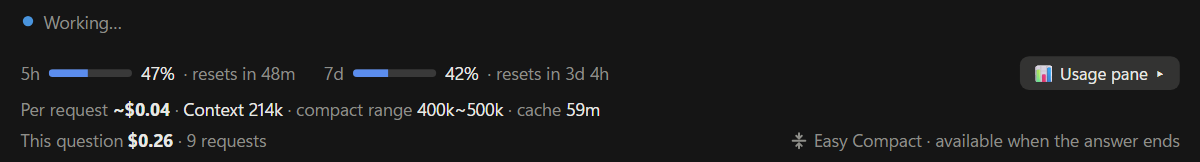
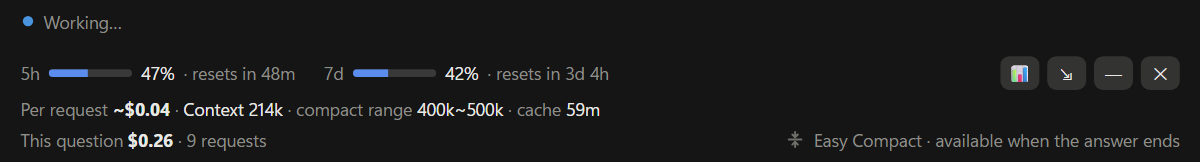
0.3.1: commands menu shows only show / hide (the rest stay on buttons and Settings), new README GIF and images for 0.3.0 screens

Changed region(s): [[0.8325, 0.3395, 0.9867, 0.5556], [0.6475, 0.8025, 0.6783, 0.9259]]

diff --git a/plugin/hooks/register.tsx b/plugin/hooks/register.tsx
@@ -1217,8 +1217,8 @@ const bandHelp = () =>
   )
 
 /**
- * 띠 단축 명령 — 도움말 · 슬래시 메뉴 맨 앞에 두는 것들(띠가 거슬린다는 말에서): 보이기 · 안보이기, 자동숨김 켜기 · 끄기,
- * 최소 · 최대, 패널 열기 · 닫기. 동사와 인자는 띄어쓰기를 무시하고 읽는다("자동 숨김 켜기" · "안 보이기"). 단축 명령이
+ * 띠 단축 명령 — 보이기 · 안보이기(메뉴 · 도움말에 보이는 건 이 둘뿐), 그리고 숨은 명령 자동숨김 켜기 · 끄기,
+ * 최소 · 최대, 패널 열기 · 닫기(바의 버튼과 같은 일 — 테스트가 쓴다). 동사와 인자는 띄어쓰기를 무시하고 읽는다("자동 숨김 켜기" · "안 보이기"). 단축 명령이
  * 아니면 null. 크기 · 자동 숨김을 고르면 안 보이기도 푼다 — 보려고 고른 것이라
  */
 async function bandShortcut($: EngineInterface, verb: string, rest: string): Promise<string | null> {
@@ -1388,45 +1388,16 @@ async function settingsCommand($: EngineInterface, verb: string, rest: string): 
   return null
 }
 
+/** 도움말 — 남은 명령 둘과, 나머지는 어디서 하는지. 명령 출력은 기록에 남아 다음 요청이 같이 읽으니 짧게 */
 const help = () =>
   L(
     [
-      '[이지 컴팩트 바 단축 명령] 모든 세션에 바로 적용 · 앱을 껐다 켜도 남음 — 영어도 됨: show | hide | auto on|off | min | max | panel',
-      '/easy-compact 보이기 | 안보이기         입력창 위 이지 컴팩트 바 늘 보이기(자동 숨김도 끔) · 끄기 — 끄기는 바의 ✕ 버튼',
-      `/easy-compact 자동숨김 켜기 | 끄기      컴팩트 구간 시작(노랑) 전엔 바를 접었다가 그때 보임 — 바의 ⇲ 버튼, 접힌 동안 입력창 아래 [${revealLabel(false)}] 로 펴기(켜기 · 끄기 없이 치면 번갈아)`,
-      '/easy-compact 최소 | 최대               바 크기: 한 줄 · 세 줄 — 바의 — / □ 버튼',
-      '/easy-compact 패널 [열기 | 닫기]        오른쪽 사용량 패널(바가 없을 때도, 열기 · 닫기 없이 치면 번갈아)',
-      '/easy-compact 패널 자동 켜기 | 끄기     새 세션에서 사용량 패널 자동으로 열기(기본 끔)',
-      '/easy-compact 패널 같이 켜기 | 끄기     한 세션에서 열고 닫으면 다른 데스크톱 세션도 같이(기본 켬)',
-      '',
-      '[설정]',
-      '/easy-compact settings   사용량 패널의 설정 탭 열기',
-      '/easy-compact set 권장 <크기|구간>   컴팩트 크기 직접 지정(예: set 권장 30만) · 구간 방식(set 권장 구간)',
-      '/easy-compact set 구간 <시작> <끝>   컴팩트 구간(예: set 구간 15만 25만) — 시작부터 노랑, 끝부터 빨강',
-      '/easy-compact set 캐시 <분>   캐시 남은 분이 이보다 적으면 노랑',
-      '/easy-compact 문구 <일반|긴 세션 이어가기|마무리|직접|직접 쓸 글>   저장하고 컴팩트 문구',
-      '/easy-compact 칸 <이름> <켜기|끄기>   최대 크기의 칸(5시간 · 7일 · 리셋 · 요청당 · 컨텍스트 · 구간 · 캐시 · 질문, 모두)',
-      '/easy-compact lang <auto|ko|en>   화면 언어(자동 = Claude 설정 → 앱 언어 → OS 언어)',
-      '/easy-compact            사용량 · 세션 기록(컨텍스트 흐름) 다시 읽기',
+      '/easy-compact 보이기 | 안보이기   입력창 위 이지 컴팩트 바 켜기 · 끄기(모든 세션) — 영어: show | hide',
+      `나머지는 바의 버튼: 📊 사용량 패널(⚙ 설정 탭) · ⇲ 자동 숨김 · — / □ 한 줄 / 전체 · ✕ 끄기. 접히거나 꺼 두면 입력창 아래 [${revealLabel(false)}]`,
     ].join('\n'),
     [
-      '[Easy Compact bar shortcuts] apply to every session at once and stay after a restart',
-      '/easy-compact show | hide          always show the Easy Compact bar above the input (auto-hide off too) · turn it off — the ✕ button',
-      `/easy-compact auto on | off        auto-hide until the start of the compact range (yellow) — the ⇲ button; while folded, [${revealLabel(false)}] below the input unfolds it (without on/off it toggles)`,
-      '/easy-compact min | max            bar size: one line · three rows — the — / □ button',
-      '/easy-compact panel [open | close] the Usage pane on the right, even with no bar (without open/close it toggles)',
-      '/easy-compact panel auto on | off  open the Usage pane by itself in new sessions (off by default)',
-      '/easy-compact panel share on | off opening or closing it in one session does the same in the other desktop sessions (on by default)',
-      '',
-      '[Settings]',
-      '/easy-compact settings   open the Settings tab of the Usage pane',
-      '/easy-compact set compact <size|range>   set a compact size (e.g. set compact 300k) · range mode (set compact range)',
-      '/easy-compact set range <start> <end>   compact range (e.g. set range 150k 250k) — yellow from start, red from end',
-      '/easy-compact set cache <minutes>   yellow when fewer cache minutes remain',
-      '/easy-compact prompt <Normal|Long-session handoff|Wrap-up|Custom|your own text>   Save & compact text',
-      '/easy-compact band <part> <on|off>   parts shown at Full size (5h · 7d · reset · request · context · range · cache · question, all)',
-      '/easy-compact lang <auto|ko|en>   display language (auto = Claude settings → app language → OS language)',
-      '/easy-compact            re-read usage · the session transcript (context flow)',
+      '/easy-compact show | hide   turn the Easy Compact bar above the input on or off (every session)',
+      `Everything else is on the bar's buttons: 📊 Usage pane (⚙ Settings tab) · ⇲ auto-hide · — / □ one line / full · ✕ off. When folded or off: [${revealLabel(false)}] below the input`,
     ].join('\n'),
   )
 
@@ -1457,14 +1428,10 @@ export const register: Register = on => {
     await ensureLang($)
     await $.command.register({
       name: 'easy-compact',
-      description: L(
-        '입력창 위 바 보이기 · 안보이기 · 자동숨김 켜기|끄기 · 최소 · 최대 · 패널 열기|닫기, 그리고 컴팩트 설정(settings · set · 문구)',
-        'Bar above the input: show · hide · auto on|off (auto-hide) · min · max · panel open|close, plus compact settings (settings · set · prompt)',
-      ),
-      argumentHint: L(
-        '[보이기 | 안보이기 | 자동숨김 켜기|끄기 | 최소 | 최대 | 패널 | settings | set … | 문구 … | 칸 <이름> 켜기|끄기 | lang]',
-        '[show | hide | auto on|off | min | max | panel | settings | set … | prompt … | band <part> on|off | lang]',
-      ),
+      // 메뉴 · 도움말엔 보이기 · 안보이기만 — 나머지는 바의 버튼 · 설정 탭이 다 한다(버튼은 기록에 안 남아 토큰 0).
+      // 그 밖의 명령(패널 · settings · set · 문구 · 칸 · lang · 최소 · 최대 · 자동숨김 · 다시 읽기)은 지우지 않고 숨긴다 — 테스트가 쓴다
+      description: L('입력창 위 이지 컴팩트 바 보이기 · 안보이기 — 나머지는 바의 버튼', 'Show or hide the Easy Compact bar above the input — everything else is on its buttons'),
+      argumentHint: L('[보이기 | 안보이기]', '[show | hide]'),
     })
     // 재로드도 session.start 다 — 여기서 턴 비용을 세면 턴이 아닌 구간이 섞인다
     await refreshUsage($, { categories: false, pushHistory: false })
@@ -1750,14 +1717,14 @@ export const register: Register = on => {
     const rest = args.slice(verb.length).trim()
     const settingsReply = await settingsCommand($, verb, rest)
     if (settingsReply !== null) return { text: settingsReply }
-    // 보이기 · 안보이기 · 필요할때만 · 최소 · 최대 · 패널(usage)은 settingsCommand 의 bandShortcut 이 받는다
+    // 보이기 · 안보이기(와 숨은 명령 — 최소 · 최대 · 자동숨김 · 패널)는 settingsCommand 의 bandShortcut 이 받는다
     if (['?', 'help', '-h', '--help', '도움말'].includes(verb.toLowerCase())) return { text: help() }
-    // 모르는 말엔 한 줄만 — 명령 출력은 대화 기록에 남아 다음 요청이 같이 읽는다(도움말 전체는 수백 토큰)
+    // 모르는 말엔 한 줄만 — 명령 출력은 대화 기록에 남아 다음 요청이 같이 읽는다
     if (verb !== '')
       return {
         text: L(
-          `모르는 명령입니다. 단축: 보이기 · 안보이기 · 자동숨김 켜기|끄기 · 최소 · 최대 · 패널 — 전체: /easy-compact ?`,
-          `Unknown command. Shortcuts: show · hide · auto on|off · min · max · panel — all: /easy-compact ?`,
+          '모르는 명령입니다. 명령은 /easy-compact 보이기 · 안보이기 — 나머지는 바의 버튼(📊 패널 · ⚙ 설정 탭)',
+          'Unknown command. Commands: /easy-compact show · hide — everything else is on the bar (📊 pane · ⚙ Settings tab)',
         ),
       }
     // 흐름 먼저 — 사용량은 컴팩트 직후인지를 흐름에서 본다

diff --git a/plugin/hooks/settings.ts b/plugin/hooks/settings.ts
@@ -1,7 +1,7 @@
 // 설정: 컴팩트 시점(구간 · 직접 지정) · 캐시 경고 · 정리 후 컴팩트 문구.
 //
 // 값은 $.store 'settings' 한 곳(모든 세션이 같이 쓰고 앱을 껐다 켜도 남는다). 화면(사용량 패널 안 설정)과
-// /easy-compact 명령이 같은 함수를 부른다. 숫자는 ◀ ▶ · −/+ 단계로, 직접 쓰는 컴팩트 문구는 입력칸이나 명령으로 받는다.
+// (숨은) /easy-compact 명령이 같은 함수를 부른다. 숫자는 ◀ ▶ · −/+ 단계로, 직접 쓰는 컴팩트 문구는 입력칸으로 받는다.
 //
 // 예전엔 기준 프리셋(빡빡하게 · 기본 · 느슨하게 · 내 프리셋)과 자동(내 질문 값 분포)이 있었다. 기준이 습관 따라 움직이고
 // 공유하면 남의 값이 되는 문제로 뺐다 — 권장 크기 하나를 계산식 최적이 따라가거나 손으로 고정한다.
@@ -145,8 +145,8 @@ export function paneAutoUse(isOn: boolean): string {
   return isOn
     ? L('새 세션은 사용량 패널을 연 채로 시작합니다. 그 뒤 닫으면 닫힌 채로 둡니다.', 'New sessions start with the Usage pane open. Once you close it, it stays closed.')
     : L(
-        `새 세션은 패널이 닫힌 채로 시작합니다. 바의 ${onTerminal() ? '사용량 패널' : '📊'} 버튼 · /easy-compact 패널 로 엽니다.`,
-        `New sessions start with the pane closed. Open it with the ${onTerminal() ? 'Usage pane' : '📊'} button on the bar or /easy-compact panel.`,
+        `새 세션은 패널이 닫힌 채로 시작합니다. 바의 ${onTerminal() ? '사용량 패널' : '📊'} 버튼으로 엽니다.`,
+        `New sessions start with the pane closed. Open it with the ${onTerminal() ? 'Usage pane' : '📊'} button on the bar.`,
       )
 }
 

diff --git a/README.ko.md b/README.ko.md
@@ -10,7 +10,7 @@
 </p>
 
 <p align="center">
-  <img src="https://img.shields.io/badge/version-0.3.0-4c9be8" alt="판 0.3.0">
+  <img src="https://img.shields.io/badge/version-0.3.1-4c9be8" alt="판 0.3.1">
   <img src="https://img.shields.io/badge/Claude_Code-plugin-D97757" alt="Claude Code 플러그인">
   <img src="https://img.shields.io/badge/tested_on-Windows-4c9be8" alt="Windows 에서 시험함">
   <img src="https://img.shields.io/badge/license-MIT-green" alt="MIT 라이선스">
@@ -19,7 +19,7 @@
 <p align="center">
   <a href="README.md">English</a> · <b>한국어</b>
   &nbsp;|&nbsp;
-  <a href="#설치">설치</a> · <a href="#새-판-받기">새 판 받기</a> · <a href="#030-에서-바뀐-것">바뀐 것</a> · <a href="#기능">기능</a> · <a href="#숨기기--접기--다시-켜기">숨기기 · 다시 켜기</a> · <a href="#명령">명령</a>
+  <a href="#설치">설치</a> · <a href="#새-판-받기">새 판 받기</a> · <a href="#030-에서-바뀐-것">바뀐 것</a> · <a href="#기능">기능</a> · <a href="#숨기기--접기--다시-켜기">숨기기 · 다시 켜기</a>
 </p>
 
 ---
@@ -148,13 +148,13 @@ flowchart LR
 
 ### 5. 사용량 패널
 
-바의 **📊**(또는 `/easy-compact 패널`)로 엽니다: 질문 · 동작별 비용, 컨텍스트 흐름, 컴팩트마다 아낀 값. 기본은 떠 있는 데스크톱 세션끼리 같이 열고 닫고, 새 세션에서 저절로 열리지는 않습니다 — 둘 다 설정 → **사용량 패널** 에서 바꿉니다.
+바의 **📊** 로 엽니다: 질문 · 동작별 비용, 컨텍스트 흐름, 컴팩트마다 아낀 값. 기본은 떠 있는 데스크톱 세션끼리 같이 열고 닫고, 새 세션에서 저절로 열리지는 않습니다 — 둘 다 설정 → **사용량 패널** 에서 바꿉니다.
 
 ### 6. 터미널에서도
 
 <img src="docs/img/terminal.png" width="900" alt="Claude Code 터미널의 같은 바와 사용량 패널">
 
-**CLI 에서도 같은 바와 사용량 패널.** 패널은 `/easy-compact 패널` 로 엽니다.
+**CLI 에서도 같은 바와 사용량 패널.** 바의 버튼은 ctrl+x tab 으로 바에 들어가 누릅니다(전체 화면 모드면 클릭).
 
 ## 숨기기 · 접기 · 다시 켜기
 
@@ -167,39 +167,11 @@ flowchart LR
 | **✕** 끄기 | 모든 세션에서 바를 끕니다 — 지울지 정하기 전에 잠시 쉬는 용도 | 입력창 아래 **🔽 이지 컴팩트 닫힘 ⇱**(회색)을 누르거나 `/easy-compact 보이기` |
 | **📊** | 사용량 패널 열기 · 닫기 | 다시 누르기 |
 
-**버튼은 토큰을 쓰지 않습니다.** 명령도 모델을 부르지는 않지만, 친 명령과 한 줄 답이 대화에 남아 다음 요청 때 같이 보내집니다(수백 토큰). 되도록 버튼을 쓰세요.
+<img src="docs/img/fold.png" width="900" alt="바를 끈 뒤: 다시 켜는 법 알림, 입력창 아래 회색 이지 컴팩트 닫힘 버튼">
 
-## 명령
+**명령은 `/easy-compact 보이기` · `안보이기` 둘뿐입니다**(영어 `show` · `hide`) — 바를 꺼 둔 뒤 다시 켤 때 쓰세요. 나머지는 바의 버튼과 📊 패널의 **⚙ 설정** 탭에서 합니다. 설정 칸은 처음엔 접혀 있고, 제목 줄에 지금 값이 보입니다.
 
-아래는 모두 바나 설정의 버튼으로도 됩니다 — 설정 칸은 처음엔 접혀 있고, 제목 줄에 지금 값이 보입니다.
-
-| 단축 명령 | 하는 일 |
-|---|---|
-| `/easy-compact 보이기` · `안보이기` | 바 늘 보이기(자동 숨김도 끔) · 끄기 |
-| `/easy-compact 자동숨김 켜기` · `끄기` | 자동 숨김(켜기 · 끄기 없이 치면 번갈아) |
-| `/easy-compact 최소` · `최대` | 바 크기: 한 줄 · 전체 |
-| `/easy-compact 패널` | 사용량 패널 열기 · 닫기(`패널 열기` · `패널 닫기`) |
-
-영어도 됩니다: `show` `hide` `auto on` `auto off` `min` `max` `panel`.
-
-<details>
-<summary><b>명령 전체</b></summary>
-
-| 명령 | 하는 일 |
-|---|---|
-| `/easy-compact 패널 자동 켜기 \| 끄기` | 새 세션에서 사용량 패널을 자동으로 엽니다(기본 끔). 그 뒤 닫으면 닫힌 채로 둡니다 |
-| `/easy-compact 패널 같이 켜기 \| 끄기` | 한 데스크톱 세션에서 패널을 열거나 닫으면 떠 있는 다른 세션도 같이 따라 합니다(기본 켬) |
-| `/easy-compact settings` | 설정 탭 열기 |
-| `/easy-compact set 구간 <시작> <끝>` | 컴팩트 구간(예: `set 구간 25만 30만`, 영어 `set range 250k 300k`) |
-| `/easy-compact set 권장 <크기>` | 컴팩트 크기 직접 지정(10만~100만) |
-| `/easy-compact set 권장 구간` | 구간 방식으로 되돌리기 |
-| `/easy-compact set 캐시 <분>` | 캐시가 이만큼 남으면 노랑 |
-| `/easy-compact 문구 <일반 \| 긴 세션 이어가기 \| 마무리 \| 직접 \| 직접 쓸 글>` | 저장하고 컴팩트 문구 |
-| `/easy-compact 칸 <이름> <켜기 \| 끄기>` | 전체 바의 칸: `5시간` `7일` `리셋` `요청당` `컨텍스트` `구간` `캐시` `질문`(`모두` = 전부) |
-| `/easy-compact lang <auto \| ko \| en>` | 화면 언어 |
-| `/easy-compact 도움말` | 이 목록을 세션에 |
-
-</details>
+**버튼은 토큰을 쓰지 않습니다.** 명령도 모델을 부르지는 않지만, 친 명령과 한 줄 답이 대화에 남아 다음 요청 때 같이 보내집니다.
 
 ## 알아 둘 것
 

diff --git a/README.md b/README.md
@@ -10,7 +10,7 @@
 </p>
 
 <p align="center">
-  <img src="https://img.shields.io/badge/version-0.3.0-4c9be8" alt="Version 0.3.0">
+  <img src="https://img.shields.io/badge/version-0.3.1-4c9be8" alt="Version 0.3.1">
   <img src="https://img.shields.io/badge/Claude_Code-plugin-D97757" alt="Claude Code plugin">
   <img src="https://img.shields.io/badge/tested_on-Windows-4c9be8" alt="Tested on Windows">
   <img src="https://img.shields.io/badge/license-MIT-green" alt="MIT license">
@@ -19,7 +19,7 @@
 <p align="center">
   <b>English</b> · <a href="README.ko.md">한국어</a>
   &nbsp;|&nbsp;
-  <a href="#install">Install</a> · <a href="#update">Update</a> · <a href="#whats-new-in-030">What's new</a> · <a href="#features">Features</a> · <a href="#hide-fold-bring-it-back">Hide · bring back</a> · <a href="#commands">Commands</a>
+  <a href="#install">Install</a> · <a href="#update">Update</a> · <a href="#whats-new-in-030">What's new</a> · <a href="#features">Features</a> · <a href="#hide-fold-bring-it-back">Hide · bring back</a>
 </p>
 
 ---
@@ -148,13 +148,13 @@ flowchart LR
 
 ### 5. Usage pane
 
-Open it with **📊** on the bar (or `/easy-compact panel`): cost per question and step, the context flow, and what each compact saved. By default it opens and closes together across your open desktop sessions, and doesn't open by itself in new sessions — both are in Settings → **Usage pane**.
+Open it with **📊** on the bar: cost per question and step, the context flow, and what each compact saved. By default it opens and closes together across your open desktop sessions, and doesn't open by itself in new sessions — both are in Settings → **Usage pane**.
 
 ### 6. Terminal too
 
 <img src="docs/img/terminal.png" width="900" alt="The same bar and Usage pane in the Claude Code terminal">
 
-**The same bar and Usage pane in the CLI.** Open the pane with `/easy-compact panel`.
+**The same bar and Usage pane in the CLI.** To press the bar's buttons, press ctrl+x tab to move into the bar (or click, in fullscreen mode).
 
 ## Hide, fold, bring it back
 
@@ -167,39 +167,11 @@ The window buttons sit at the top right of the bar. Every choice applies to all 
 | **✕** off | Turns the bar off in every session — a pause before you decide to uninstall | Press **🔽 Easy Compact closed ⇱** (grey) below the input, or type `/easy-compact show` |
 | **📊** | Opens or closes the Usage pane | Press it again |
 
-**Buttons cost nothing.** Typed commands don't call the model either, but the command and its one-line answer stay in the conversation, so they are re-sent with your next request (a few hundred tokens). Prefer the buttons when you can.
+<img src="docs/img/fold.png" width="900" alt="After turning the bar off: a note on how to turn it back on, and the grey Easy Compact closed button below the input">
 
-## Commands
+**There are only two commands: `/easy-compact show` · `hide`** — use `show` to turn the bar back on after turning it off. Everything else is on the bar's buttons and the **⚙ Settings** tab of the 📊 pane. Settings sections start folded, with the current value on each title.
 
-Everything below is also a button on the bar or in Settings — Settings sections start folded, with the current value on each title.
-
-| Shortcut | What it does |
-|---|---|
-| `/easy-compact show` · `hide` | Always show the bar (turns auto-hide off too) · turn it off |
-| `/easy-compact auto on` · `auto off` | Auto-hide (without `on` / `off` it toggles) |
-| `/easy-compact min` · `max` | Bar size: one line · full |
-| `/easy-compact panel` | Open · close the Usage pane (`panel open` · `panel close`) |
-
-Korean words work too: `보이기` `안보이기` `자동숨김 켜기` `자동숨김 끄기` `최소` `최대` `패널`.
-
-<details>
-<summary><b>All commands</b></summary>
-
-| Command | What it does |
-|---|---|
-| `/easy-compact panel auto on \| off` | Open the Usage pane by itself in new sessions (off by default). Once you close it, it stays closed |
-| `/easy-compact panel share on \| off` | Opening or closing the pane in one desktop session does the same in the other open ones (on by default) |
-| `/easy-compact settings` | Open the Settings tab |
-| `/easy-compact set range <start> <end>` | Compact range, e.g. `set range 250k 300k` |
-| `/easy-compact set compact <size>` | A fixed compact size (100k–1M) |
-| `/easy-compact set compact range` | Back to range mode |
-| `/easy-compact set cache <minutes>` | Warn when this much cache time is left |
-| `/easy-compact prompt <Normal \| Long-session handoff \| Wrap-up \| Custom \| your text>` | Save & compact text |
-| `/easy-compact band <part> <on \| off>` | Parts of the full bar: `5h` `7d` `reset` `request` `context` `range` `cache` `question` (`all` for every part) |
-| `/easy-compact lang <auto \| ko \| en>` | Display language |
-| `/easy-compact help` | This list in the session |
-
-</details>
+**Buttons cost nothing.** Typed commands don't call the model either, but the command and its one-line answer stay in the conversation, so they are re-sent with your next request.
 
 ## Good to know
 

diff --git a/CHANGELOG.ko.md b/CHANGELOG.ko.md
@@ -4,6 +4,12 @@ easy-compact 의 판마다 바뀐 것입니다. 판 번호는 [유의적 버전]
 
 **새 판 받기:** `claude plugin marketplace update easy-compact` → `claude plugin update easy-compact@easy-compact` → Claude 다시 켜기 — [새 판 받기](README.ko.md#새-판-받기) 참고.
 
+## [0.3.1] — 2026-10-12
+
+### 바뀜
+- **명령은 `/easy-compact 보이기` · `안보이기` 둘만 보입니다** — 입력 메뉴 · 도움말 · README 에서 나머지를 뺐습니다. 크기 · 자동 숨김 · 패널 · 설정은 바의 버튼과 ⚙ 설정 탭에서 합니다(버튼은 대화 기록에 안 남아 토큰이 들지 않습니다). 예전 명령은 지우지 않아 쳐도 그대로 됩니다.
+- README 맨 위 GIF 와 기능 그림을 0.3.0 화면(창 버튼 · 접힘 버튼 · 회색 / 파랑 🗜)으로 새로 만들었습니다. 바를 끈 뒤 다시 켜는 법 그림을 더했습니다.
+
 ## [0.3.0] — 2026-10-12
 
 ### 새로 생김
@@ -37,6 +43,7 @@ easy-compact 의 판마다 바뀐 것입니다. 판 번호는 [유의적 버전]
 
 첫 공개: 입력창 위 띠(요금제 사용량 · 요청당 값 · 컨텍스트 · 컴팩트 구간 · 캐시), 사용량 패널(질문 · 동작별 비용, 컨텍스트 흐름, 컴팩트 효과), 비용표로 컴팩트 시점 고르기, 클릭 한 번 *저장하고 컴팩트*.
 
+[0.3.1]: https://github.com/JaeSeongHa5280/easy-compact/releases/tag/v0.3.1
 [0.3.0]: https://github.com/JaeSeongHa5280/easy-compact/releases/tag/v0.3.0
 [0.2.0]: https://github.com/JaeSeongHa5280/easy-compact/tree/v0.2.0
 [0.1.0]: https://github.com/JaeSeongHa5280/easy-compact/tree/v0.1.0

diff --git a/CHANGELOG.md b/CHANGELOG.md
@@ -4,6 +4,12 @@ All notable changes to easy-compact. Versions follow [Semantic Versioning](https
 
 **Update:** `claude plugin marketplace update easy-compact`, then `claude plugin update easy-compact@easy-compact`, then restart Claude — see [Update](README.md#update).
 
+## [0.3.1] — 2026-10-12
+
+### Changed
+- **Only two commands are listed: `/easy-compact show` · `hide`.** The rest are gone from the slash menu, the help and the README — size, auto-hide, the pane and settings are on the bar's buttons and the ⚙ Settings tab (buttons leave nothing in the conversation, so they cost no tokens). The old commands still work if you type them.
+- New README GIF and feature images for the 0.3.0 screens (window buttons, fold button, grey / blue 🗜), plus a picture of how to turn the bar back on.
+
 ## [0.3.0] — 2026-10-12
 
 ### Added
@@ -37,6 +43,7 @@ All notable changes to easy-compact. Versions follow [Semantic Versioning](https
 
 First public release: the band above the input (plan usage, per-request cost, context, compact range, cache), the Usage pane (cost per question and step, context flow, compact effect), compact timing from a cost table, and one-click *Save & compact*.
 
+[0.3.1]: https://github.com/JaeSeongHa5280/easy-compact/releases/tag/v0.3.1
 [0.3.0]: https://github.com/JaeSeongHa5280/easy-compact/releases/tag/v0.3.0
 [0.2.0]: https://github.com/JaeSeongHa5280/easy-compact/tree/v0.2.0
 [0.1.0]: https://github.com/JaeSeongHa5280/easy-compact/tree/v0.1.0
